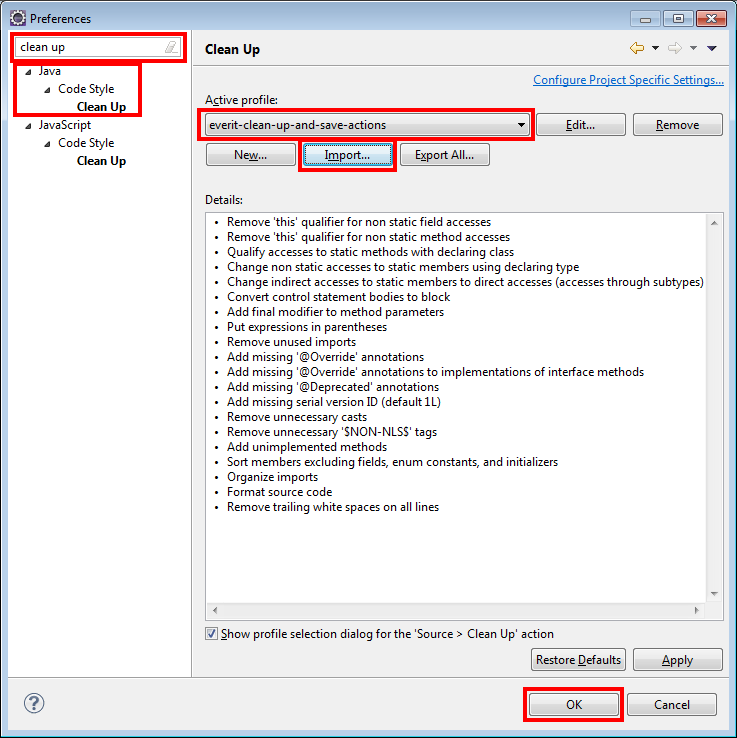
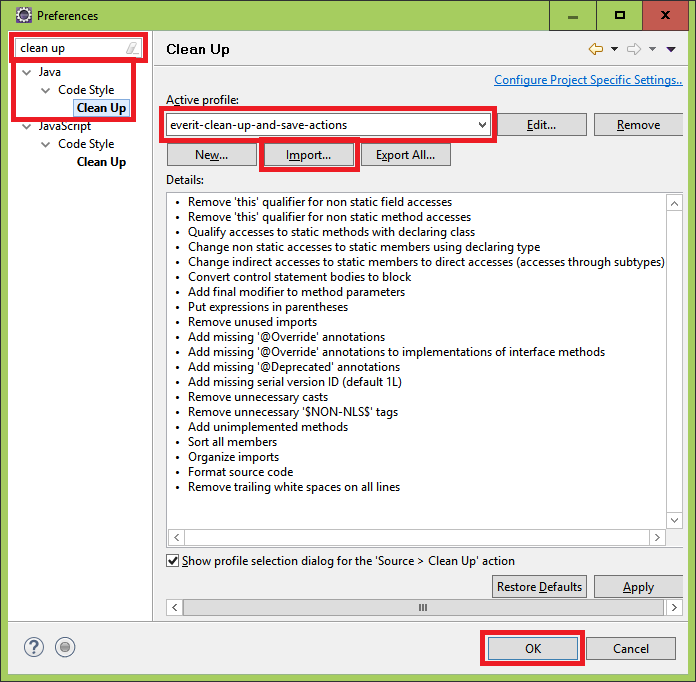
save actions fixed

Changed region(s): [[0.0, 0.0, 1.0, 1.0]]

diff --git a/ide/index.html b/ide/index.html
@@ -241,7 +241,7 @@
           </li>
         </ol>
 
-        <h3 id="conf_clean_save_actions">Configuring "Clean up and Save Actions"</h3>
+        <h3 id="conf_clean_save_actions">Configuring "Clean up" and "Save Actions"</h3>
         <p>To set up the following preferences is strongly recommended, but it is not required only if one wishes to
           contribute to the codes written by Everit.</p>
         <ol>
@@ -261,10 +261,11 @@
           </li>
           <li>
             <p>Click "OK" to make the above file the default code cleaner.</p> <img class="img-responsive img-thumbnail"
-            src="clean-up-and-save.png" alt="Configure clean up and save actions" />
+            src="clean-up-and-save.png" alt="Configure clean up" />
           </li>
           <li>
-            <p>To clean up a code, click "Source/Clean Up..." when in a java file.</p>
+            <p>To clean up a code, click "Source/Clean Up..." when in a java file or set up the automatic "Save action" in the same way:</p> <img class="img-responsive img-thumbnail"
+            src="save-actions.png" alt="Configure save actions" />
           </li>
         </ol>
 
@@ -384,7 +385,7 @@
               <li><a href="#cust_java_editor">Customizing Java editor</a></li>
               <li><a href="#cust_project_explorar">Customizing Project Explorer</a></li>
               <li><a href="#conf_java_formatter">Configuring Java formatter</a></li>
-              <li><a href="#conf_clean_save_actions">Configuring 'Clean up and Save Actions'</a></li>
+              <li><a href="#conf_clean_save_actions">Configuring 'Clean up' and 'Save Actions'</a></li>
               <li><a href="#conf_xml_html_formatter">Configuring the XML/HTML formatter</a></li>
               <li><a href="#set_checkstyle">Setting up Checkstyle</a></li>
               <li><a href="#install_m2e_connectors">Installing m2e connectors</a></li>
